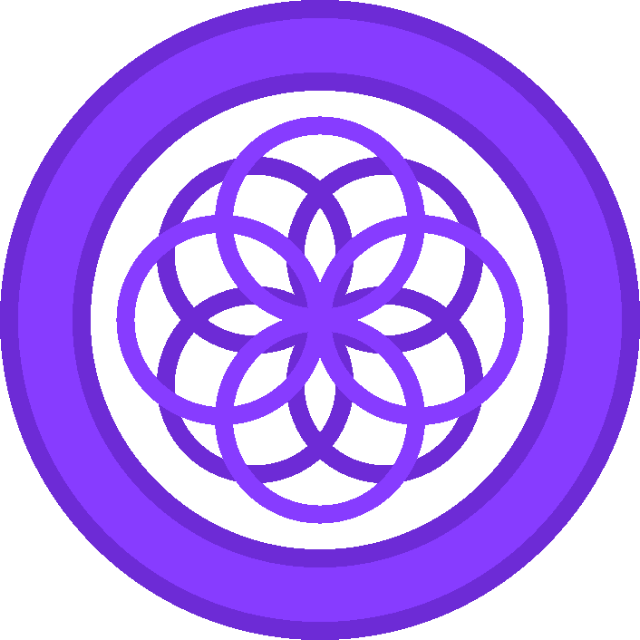
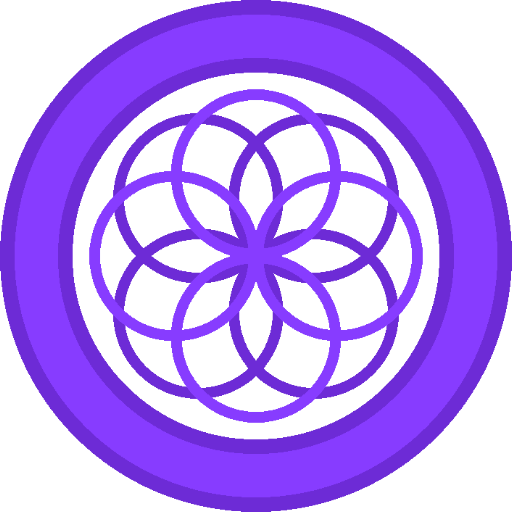
Version 1.4

Changed region(s): [[0.1562, 0.1562, 0.8438, 0.8438]]

diff --git a/js/methods.js b/js/methods.js
@@ -1,21 +1,42 @@
 //Vue methods
 let methods = {};
 
-//Method to load a project
-methods.loadProject = async function(id) {
+methods.loadProject = async function(url) {
+	
+	if (!this.allowProjectLoads) return;
 	
 	this.projTitle = "Project";
-	var idnum;
 	//In case we already have a project loaded
 	this.projectReady = false;
-	
-	//If the ID is not a number, it is instantly not a valid project
-	if ((isNaN(id) && !(id.includes("scratch.mit.edu/projects/"))) || id === "") {
-		this.projectMessage = "Project ID is not a number. Make sure to use the project ID, not the URL.";
-		return;
-	} else {
-		idnum = id.replace("https://", "").replace("http://", "").replace("scratch.mit.edu/projects/", "").replace("/", "")
+		
+	//If the URL does not contain a number, it is instantly not a valid project
+	let id = url.match(/[-\d]+/);
+	if (id) {
+		id = id[0];
 	}
+	if (id < 1) {
+		console.log(id, "is less than 1")
+		if (id === null) {
+			console.log("id is null")
+			this.projectMessage = url + " does not seem to contain a number.";
+		} else {
+			if (id < 0) {
+				console.log(id, "is negative")
+				this.projectMessage = "...project IDs can't be negative?";
+			} else if (id * 1 === 0){
+				console.log("id is zero")
+				this.projectMessage = "Project IDs cannot be 0.";
+			} else {
+				//Just in case
+				console.log(id, "is invalid")
+				this.projectMessage = url + " does not seem to be a valid project URL or ID.";
+			}
+		}
+		return;
+	}
+	
+	console.log("check passed")
+	history.pushState(null, "", "#" + id);
 	
 	function doProjectName() {
 		//Fetch project name from ScratchDB
@@ -28,7 +49,6 @@ methods.loadProject = async function(id) {
 				try {JSON.parse(t);} catch(e) {return;}
 				
 				const J = JSON.parse(t);
-				if (J.code) {return;}
 				
 				v.projTitle = J.title;
 			})
@@ -45,12 +65,14 @@ methods.loadProject = async function(id) {
 		.then((resp) => {response = resp; return resp.text()})
 		.then((text) => {t = text;});
 	if (!response.ok) {
-		this.projectMessage = "Project not found.";
+		console.log("404")
+		this.projectMessage = `Project ID ${id} was not found.`;
 	}
 	try {
 		JSON.parse(t);
 	} catch(e) {
 		if (t.startsWith("ScratchV")) {
+			console.log("scratch 1.4")
 			this.projectMessage = "Scratch 1.x projects are not supported.";
 			doProjectName();
 		}
@@ -58,10 +80,12 @@ methods.loadProject = async function(id) {
 	}
 	const PROJECT = JSON.parse(t);
 	if (PROJECT.code) {
+		console.log("the error which is sent in json for some reason")
 		this.projectMessage = "Project not found.";
 		return;
 	}
 	if (PROJECT.objName) {
+		console.log("scratch 2.0")
 		this.projectMessage = "Scratch 2.0 projects are not supported yet.";
 		doProjectName();
 		return;
@@ -77,6 +101,9 @@ methods.loadProject = async function(id) {
 	
 	this.project.blockCount = 0;
 	this.project.commentCount = 0;
+	
+	//Why not
+	this.project.original = PROJECT;
 	
 	this.project.sprites = [];
 	//Add all sprites to our project
@@ -117,6 +144,18 @@ methods.loadProject = async function(id) {
 			
 			//Also broadcasts too
 			SPRITE.broadcasts = TARGET.broadcasts;
+		}
+		
+		//EASTER EGG
+		const msgComment = Object.values(SPRITE.comments).find((c)=>c.text.startsWith("PrExMsg\n"))
+		if (msgComment) {
+			SPRITE.msg = msgComment.text.substring(8);
+		}
+		if (TARGET.isStage) {
+			const gMsgComment = Object.values(SPRITE.comments).find((c)=>c.text.startsWith("PrExGeneralMsg\n"))
+			if (gMsgComment) {
+				this.project.generalMsg = gMsgComment.text.substring(15);
+			}
 		}
 		
 		//Store count
@@ -169,20 +208,35 @@ methods.loadProject = async function(id) {
 	} else {
 		this.selectedSprite = 0;
 	}
+	
 	this.projectMessage = "Done!";
 	this.projectReady = true;
 	this.projTitle = "Project";
+	console.log("ebic")
 	doProjectName();
 }
 
-methods.promptForProject = function() {
-	let projID = prompt("Please enter a project ID. Only Scratch 3.0 projects work, and you can use unshared projects.")
-	if (projID === null) return;
-	this.loadProject(projID);
-}
-
 methods.showAboutScreen = function() {
+	if (!this.isHomePage) return;
+	
 	this.projectReady = -2; 
 	this.idInputVal = ""; 
 	this.projTitle = "About";
+}
+
+methods.init = function() {
+	const loadHash = (h) => {
+		let hashText = h.substring(1);
+		this.idInputVal = hashText;
+		this.loadProject(hashText);
+	}
+	
+	window.addEventListener("hashchange", ()=>{loadHash(location.hash);}, false);
+	
+	if (window.location.hash) {
+		loadHash(window.location.hash);
+	} else {
+		this.idInputVal = "";
+		methods.showAboutScreen();
+	}
 }

diff --git a/js/components.js b/js/components.js
@@ -2,13 +2,12 @@
 Vue.component("navbar", {
 	template: `<div id="header">
 	<div id="header-content">
-		<span class="header-item logo">
+		<span class="header-item logo button" v-on:click="$parent.showAboutScreen" title="(click to see about page)">
 			<img src="img/icon.svg">
-			Project Explorer
+			<span class="name">Project Explorer</span>
 		</span>
-		<span class="header-item about button"><img src="img/info.svg" v-on:click="$parent.showAboutScreen" alt="About"></span>
 		<span class="header-item projtitle header-input">{{$parent.projTitle}}</span>
-		<input id="projIDInput" v-model="$parent.idInputVal" v-on:change="$parent.loadProject($parent.idInputVal)" class="header-item projid header-input" placeholder="Enter a project ID...">
+		<input v-if="$parent.allowProjectLoads" id="projIDInput" v-model="$parent.idInputVal" v-on:change="$parent.loadProject($parent.idInputVal)" class="header-item projid header-input" placeholder="Enter a project ID/URL...">
 	</div>
 </div>`
 });
@@ -27,6 +26,10 @@ Vue.component("asset-li", {
 Vue.component("sprite-info", {
 	props: ["sprite"],
 	template: `<div>
+	<h2>{{sprite.name}}</h2>
+	<div v-if="sprite.msg">
+		<span class="proj-msg">{{sprite.msg}}</span><br><br>
+	</div>
 	<div v-if="!sprite.isStage">
 		<b>Position:</b> {{sprite.x}}, {{sprite.y}}<br>
 		<b>Direction:</b> {{sprite.direction}}<br>
@@ -56,10 +59,9 @@ Vue.component("sprite-list", {
 	template: `<div
 	class="sprites-li"
 	v-on:click="$parent.selectedSprite = sprite.id; $parent.selectedAsset = -1"
+	v-bind:class="{'sprites-highlighted': $parent.selectedSprite == sprite.id}"
 >
-	<span
-		v-bind:class="{'sprites-highlighted': $parent.selectedSprite == sprite.id}"
-	>{{sprite.name}}</span>
+	<span>{{sprite.name}}</span>
 </div>`
 });
 Vue.component("sprite-tab", {

diff --git a/index.html b/index.html
@@ -5,7 +5,8 @@
 		<script src="https://cdn.jsdelivr.net/npm/vue@2/dist/vue.js"></script>
 		<link href="css/general.css" rel="stylesheet">
 		<link href="css/seeinside.css" rel="stylesheet">
-		<link rel="icon" type="image/x-icon" href="img/favicon.png">
+		<link rel="icon" sizes="512x512" type="image/png" href="img/icon.png">
+		<link rel="icon" sizes="16x16" type="image/png" href="img/favicon.png">
 	</head>
 	<body class="see-inside">
 		<div id="app">
@@ -15,7 +16,7 @@
 					<div class="project-grid">
 						<div id="tabs-area" v-if="selectedSprite >= 0">
 							<sprite-tab
-								v-bind:name='"General"'
+								v-bind:name='"Info"'
 								v-bind:id="0"
 							></sprite-tab>
 							<sprite-tab
@@ -84,6 +85,12 @@
 							</div>
 						</div>
 						<div v-else class="padded-info">
+							<h2>General</h2>
+							
+							<div v-if="project.generalMsg">
+								<span class="proj-msg">{{project.generalMsg}}</span><br><br>
+							</div>
+							
 							<b>Total blocks: </b> {{project.blockCount}}<br>
 							<b>Total comments: </b> {{project.commentCount}}<br>
 							<b>Scratch version: </b> {{project.meta.scratchVer}}<br>
@@ -130,17 +137,5 @@
 		<script src="js/methods.js"></script>
 		<script src="js/components.js"></script>
 		<script src="js/general.js"></script>
-		<script>
-			v.showAboutScreen();
-		</script>
-		
-		<!--
-			Test projects:
-				10128407: Paper Minecraft
-				500000000: 500000000th Project of Scratch !
-				293945436: WBP WORKSPACE - DO NOT READ
-				534013689: Just Mineral Fish & Their Soundtracks
-				1: Project 1
-		-->
 	</body>
 </html>

diff --git a/404.html b/404.html
@@ -4,18 +4,26 @@
 		<title>Project Explorer</title>
 		<script src="https://cdn.jsdelivr.net/npm/vue@2/dist/vue.js"></script>
 		<link href="css/general.css" rel="stylesheet">
-		<link rel="icon" type="image/x-icon" href="img/favicon.png">
+		<link rel="apple-touch-icon" sizes="512x512" type="image/png" href="img/icon.png">
+		<link rel="icon" sizes="512x512" type="image/png" href="img/icon.png">
+		<link rel="icon" sizes="16x16" type="image/png" href="img/favicon.png">
 	</head>
 	<body>
 		<div id="app">
 			<navbar></navbar>
 			<div id="content">
-				404 Not Found
+				This page was not found.<br>Go to the <a href="index.html">home page</a>.
 			</div>
 		</div>
 		
+		<script>
+			window.isHomePage = false;
+		</script>
 		<script src="js/methods.js"></script>
 		<script src="js/components.js"></script>
 		<script src="js/general.js"></script>
+		<script>
+			v.projTitle = "404";
+		</script>
 	</body>
 </html>

diff --git a/js/general.js b/js/general.js
@@ -1,33 +1,24 @@
 //Start
+window.isHomePage = window.isHomePage === undefined ? true : window.isHomePage
 var v = new Vue({
 	el: "#app",
 	data: {
-		version: "1.3.1.3",
+		version: "1.4",
 		
 		selectedSprite: 0,
 		selectedTab: 0,
 		
 		projTitle: "Project Explorer",
-		projectReady: -2,
 		projectMessage: "",
+		projectReady: -2,
+		isHomePage: window.isHomePage,
 		project: {},
 		
 		selectedAsset: -1,
-		idInputVal: ""
+		idInputVal: "",
+		
+		allowProjectLoads: window.isHomePage,
 	},
-	methods: methods
+	methods: methods,
+	mounted: methods.init,
 });
-
-const loadHash = (h) => {
-	let hashText = h.substring(1);
-	v.idInputVal = hashText;
-	v.loadProject(hashText);
-}
-
-if (location.hash) {
-	loadHash(location.hash);
-} else {
-	v.idInputVal = "";
-}
-
-window.addEventListener("hashchange", ()=>{loadHash(location.hash);}, false);

diff --git a/css/header.css b/css/header.css
@@ -34,12 +34,18 @@
 	display: flex;
 	align-items: middle;
 }
-.header-item.logo img {
+.header-item.logo > img {
 	width: 3rem;
 	height: auto;
 	margin-right: 0.25em;
 	filter: drop-shadow(0 0 0.5rem var(--lighter-main));
 }
+@media screen and (max-width: 768px) {
+	.header-item.logo > .name {
+		display: none;
+	}
+}
+
 .header-item.projtitle {
 	background-color: var(--dark-main);
 	width: 100%;
@@ -48,7 +54,7 @@
 .header-item.projid {
 	background-color: var(--white);
 	color: var(--text);
-	width: 18em;
+	width: 25em;
 }
 .header-item.projid::placeholder {
 	color: var(--light-gray);

diff --git a/css/seeinside.css b/css/seeinside.css
@@ -26,6 +26,7 @@ body.see-inside {
 /* Sprites area */
 .sprites-li {
 	height: 2em;
+	padding: 0 0.2em;
 	
 	text-align: center;
 	
@@ -39,7 +40,7 @@ body.see-inside {
 	
 	font-size: var(--text-size-large);
 }
-.sprites-li {
+.sprites-li > span {
 	text-overflow: ellipsis;
 	white-space: nowrap;
 	overflow: hidden;
@@ -76,6 +77,7 @@ body.see-inside {
 }
 .padded-info {
 	padding: 1em;
+	padding-top: 0.5em;
 }
 .asset-tab {
 	display: flex;
@@ -184,4 +186,8 @@ body.see-inside {
 	position: absolute;
 	left: 0.25em;
 	top: 0.25em;
+}
+
+.proj-msg {
+	white-space: pre-wrap;
 }

diff --git a/css/basicelements.css b/css/basicelements.css
@@ -5,8 +5,11 @@ hr {
 	height: 4px;
 	margin: 4px 0;
 }
-h1, h2, h3, h4, h5 {
+h1 {
 	margin: 0.75em 0 0.1em 0;
+}
+h2, h3, h4, h5 {
+	margin: 0.2em 0 0.1em 0;
 }
 a {
 	color: var(--main);
